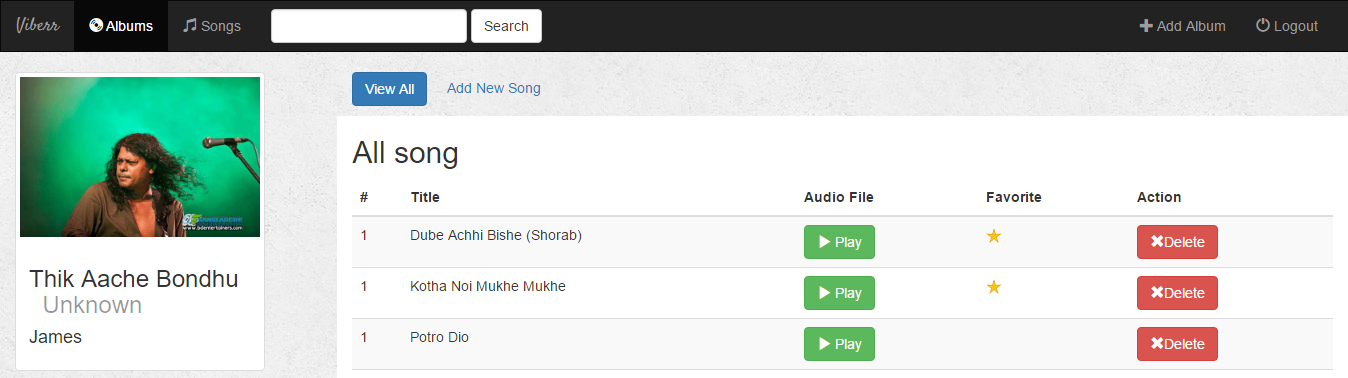
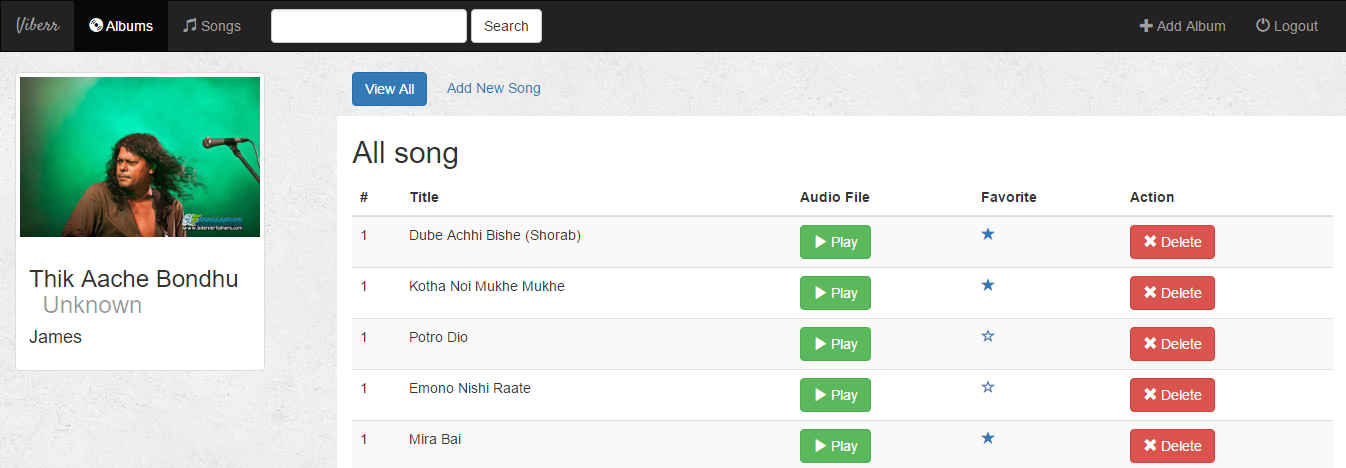
initial commit

diff --git a/music/templates/music/detail.html b/music/templates/music/detail.html
@@ -39,8 +39,13 @@
             <td>1</td>
             <td>{{ song.song_title  }}</td>
             <td><button type="button" class="btn btn-success"><span class="glyphicon glyphicon-play"></span>&nbsp;Play</button></td>
-            <td>{% if song.is_favorite %}<img src="http://i.imgur.com/b9b13Rd.png" />{% endif %}</td>
-            <td><button type="button" class="btn btn-danger"><span class="glyphicon glyphicon-remove"></span>Delete</button></td>
+            <td>
+                {% if song.is_favorite %}
+                    <a href="#" ><span class="glyphicon glyphicon-star"></span></a>
+                {% else %}
+                    <a href="#"><span class="glyphicon glyphicon-star-empty "></span></a>
+                {% endif %}</td>
+            <td><button type="button" class="btn btn-danger"><span class="glyphicon glyphicon-remove"></span>&nbsp;Delete</button></td>
           </tr>
         {% endfor %}
         </tbody>
